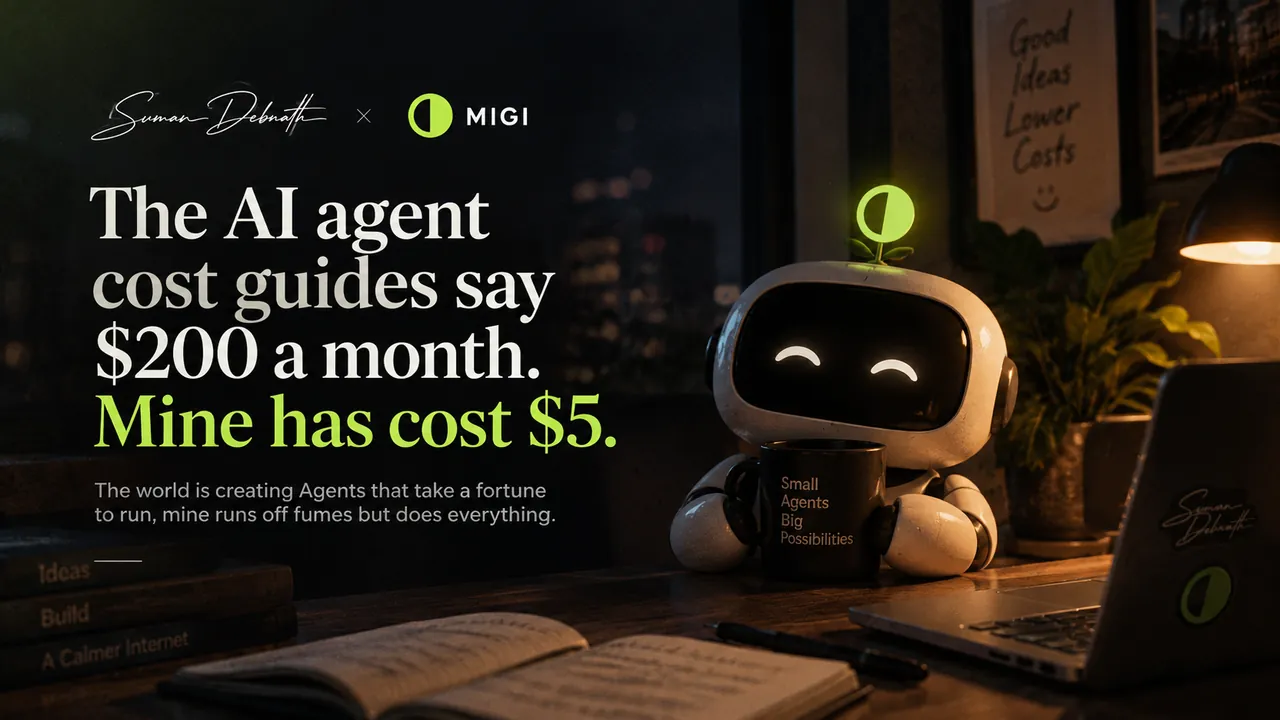
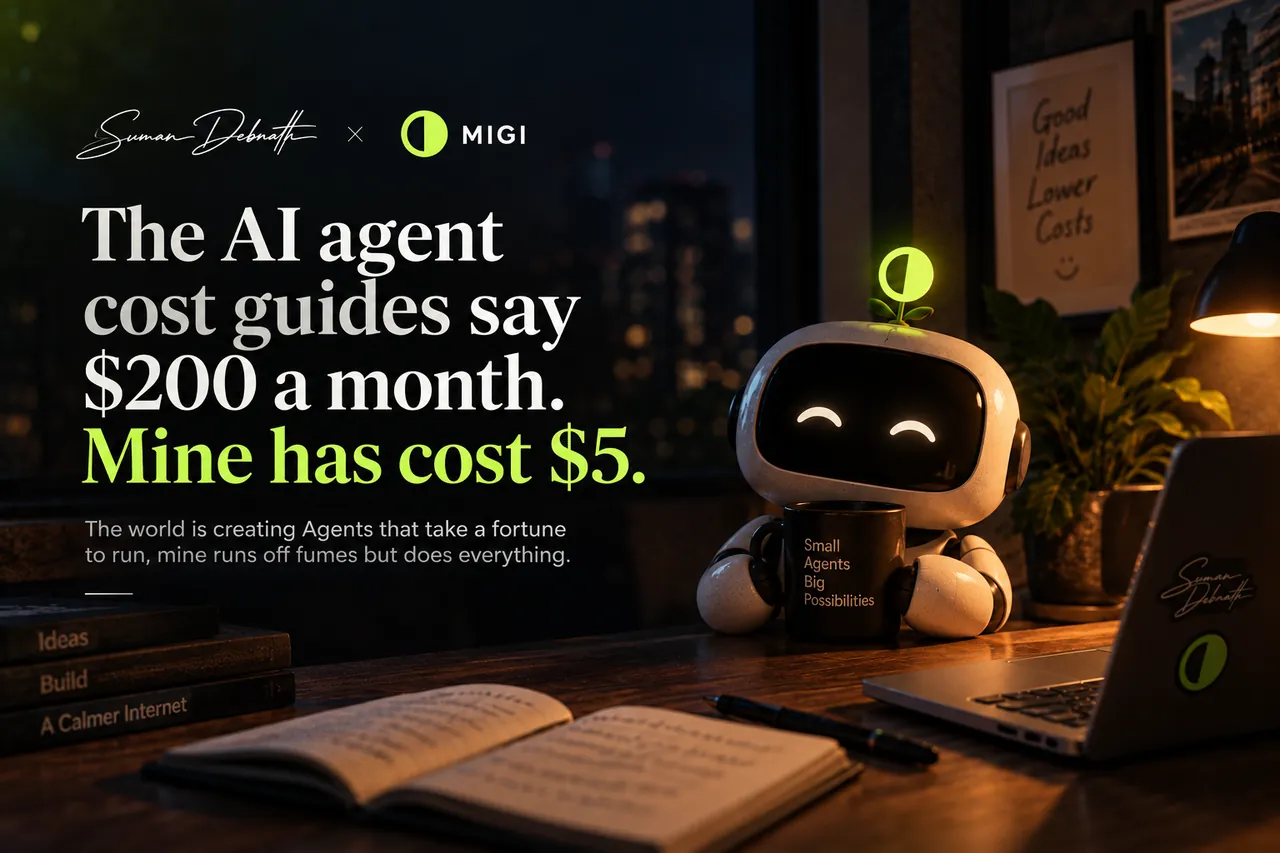
fix(notebook): reframe the cost article's cover to 3:2
The cover shipped at 1280×720. That is native in the article lede and wrong
everywhere else: the lead story, the rail and the foot thumbnails are all 3:2,
so they took 7.8% off each side. The baked-in headline survived, but the
strapline underneath lost its first characters and the lamp on the right edge
went — in the most prominent image on the blog.

Replaced with a 3:2 reframe of the same scene, supplied at the house master size
of 1536×1024. Measured after: 0% crop in the lead story, 7.9% off top and bottom
in the 16:9 lede, which costs empty window above and a sliver of desk below.

NOTEBOOK_COVERS records the asymmetry rather than just the incident, because it
is the reason the 3:2 rule exists: these scenes are composed with headroom above
and desk below, and nothing is composed with 8% of dead space at the left
margin. A 3:2 master is therefore safe in every slot including the wide one, and
a 16:9 master is safe in exactly one — and it is the article page, which is the
one place that tells you nothing, so a non-3:2 master must be checked against
/notebook instead.

The in-article figure stays 16:9. That slot does no cropping at all.

diff --git a/NOTEBOOK_COVERS.md b/NOTEBOOK_COVERS.md
@@ -58,15 +58,22 @@ The arithmetic, so nobody has to redo it:
 > are 3:2 now. If a slot needs a square mark, it needs a different asset.
 
 > **A 16:9 master costs 7.8% off each side in the 3:2 slots — measured, not
-> estimated.** `what-ai-agents-cost-to-run` was supplied at 1280×720 rather than
-> the house 3:2, so it is native in the article lede and trimmed in the lead
-> story, rail and foot thumbnails. It survives because its baked-in headline sits
-> inside the middle 85%; the strapline underneath loses its first characters and
-> the lamp on the right edge disappears. **Acceptable for a supplied image with
-> text already in it, and not a licence to stop generating at 3:2** — anything
-> with type nearer the edge than 8% will clip in the most prominent slot on the
-> blog. Check a 16:9 master against `/notebook` before committing it, never
-> against the article page, which is the one place it fits perfectly.
+> estimated, and the reason the rule above is a rule.** `what-ai-agents-cost-to-run`
+> shipped for one commit at 1280×720. Its baked-in headline survived, sitting
+> inside the middle 85%, but the strapline underneath lost its first characters
+> and the lamp on the right edge disappeared — in the lead-story slot, which is
+> the most prominent image on the blog. It was replaced with a 3:2 reframe of the
+> same scene the same day.
+>
+> The asymmetry is worth holding on to. **A 3:2 master trims vertically and a
+> 16:9 master trims horizontally, and only one of those is designed for.** These
+> images are composed with headroom above and desk below; nothing is composed
+> with 8% of dead space at the left margin. So a 3:2 master is safe in every slot
+> including the 16:9 lede, and a 16:9 master is safe in exactly one.
+>
+> **Check any master that is not 3:2 against `/notebook`, never against the
+> article page** — the article page is the one place a wide image fits perfectly,
+> which makes it the one place that tells you nothing.
 
 **1280 wide is still the ceiling** (§5) and a full-bleed desktop lede would want
 about 2400. That is why the lede is *wide-contained* at 936px rather than edge
